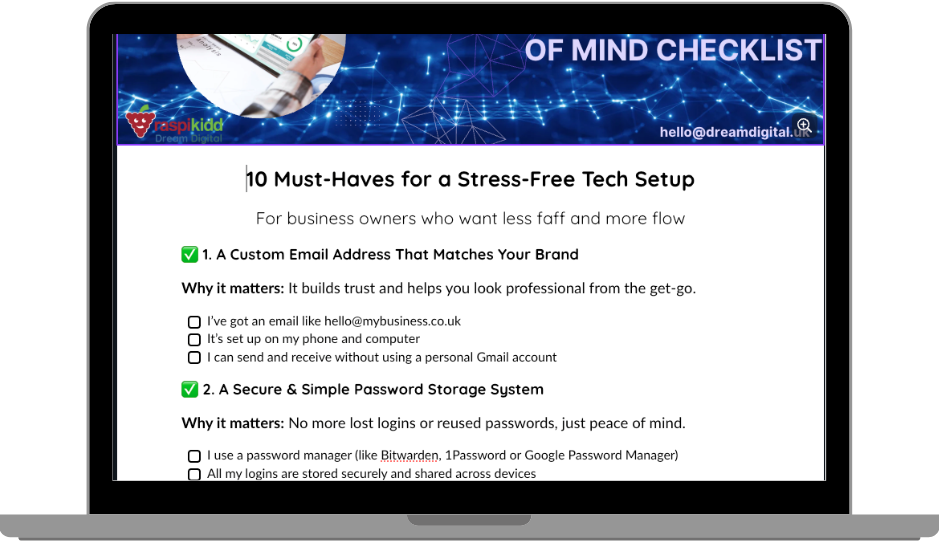
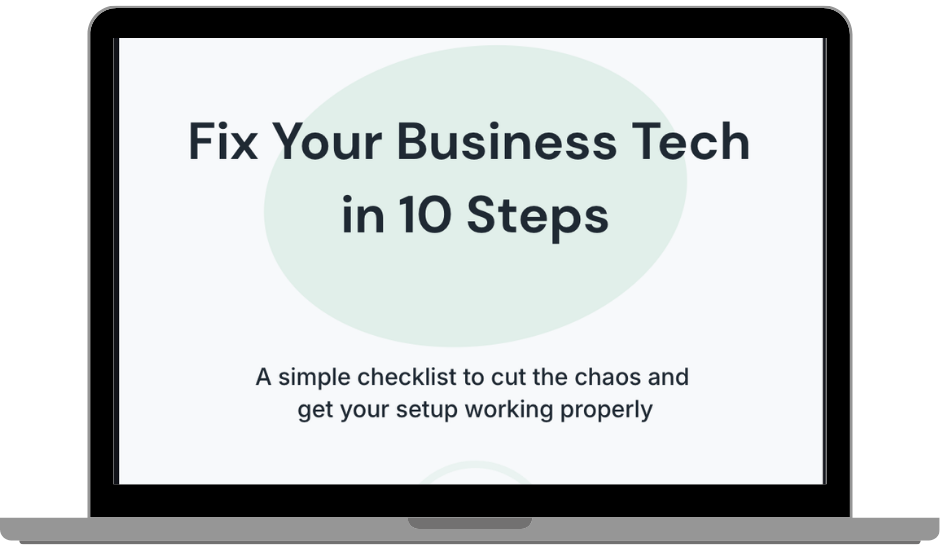
refactor: update geolocation data and enhance CTA form styling

diff --git a/components/cta-form.vue b/components/cta-form.vue
@@ -1,7 +1,7 @@
 <template>
   <div class="bg-orange-50 py-8 sm:py-12 lg:py-16">
     <div class="mx-auto grid max-w-7xl grid-cols-1 gap-10 px-6 lg:grid-cols-12 lg:gap-8 lg:px-8">
-        <h2 class="max-w-xl tracking-tight text-balance lg:col-span-7">
+        <h2 class="max-w-xl text-3xl font-semibold tracking-tight text-balance sm:text-4xl lg:col-span-7">
             Get our free Digital Clarity Checklist Straight to your inbox
         </h2>
       <form class="w-full max-w-md lg:col-span-5 lg:pt-2" name="LandingPage" method="POST" netlify>
@@ -10,14 +10,16 @@
             <label for="name" class="sr-only">
                 Name
             </label>
-            <input id="name" name="name" type="text" autocomplete="name" required class="min-w-0 flex-auto rounded-md bg-zinc-100 border-2 px-3.5 py-2 text-base text-gray-900 outline-1 -outline-offset-1 border-sky-700 outline-violet-300 placeholder:text-gray-400 focus:outline-2 focus:-outline-offset-2 focus:outline-violet-600 sm:text-sm/6" placeholder="Enter your Name" />
+            <input id="name" name="name" type="text" autocomplete="name" required class="min-w-0 flex-auto rounded-md bg-zinc-100 border-2 px-3.5 py-2 text-base text-gray-900 outline-1 -outline-offset-1 border-sky-700 outline-violet-300 placeholder:text-gray-400 focus:outline-2 focus:-outline-offset-2 focus:outline-violet-600 sm:text-sm/6" placeholder="Name" />
             <label for="email-address" class="sr-only">
                 Email address
             </label>
-            <input id="email-address" name="email" type="email" autocomplete="email" required class="min-w-0 flex-auto rounded-md bg-zinc-100 border-2 px-3.5 py-2 text-base text-gray-900 outline-1 -outline-offset-1 border-sky-700 outline-violet-300 placeholder:text-gray-400 focus:outline-2 focus:-outline-offset-2 focus:outline-violet-600 sm:text-sm/6" placeholder="Enter your email" />
-            <button type="submit" class="flex-none rounded-md bg-green-600 px-3.5 py-2.5 text-sm font-semibold text-white shadow-xs hover:bg-emerald-500 focus-visible:outline-2 focus-visible:outline-offset-2 focus-visible:outline-green-500">
+            <input id="email-address" name="email" type="email" autocomplete="email" required class="min-w-0 flex-auto rounded-md bg-zinc-100 border-2 px-3.5 py-2 text-base text-gray-900 outline-1 -outline-offset-1 border-sky-700 outline-violet-300 placeholder:text-gray-400 focus:outline-2 focus:-outline-offset-2 focus:outline-violet-600 sm:text-sm/6" placeholder="Email" />
+          <div>
+            <button type="submit" class="flex w-full justify-center rounded-md bg-green-600 px-3 py-1.5 text-sm/6 font-semibold text-white shadow-xs hover:bg-emerald-500 focus-visible:outline-2 focus-visible:outline-offset-2 focus-visible:outline-green-500">
                 Send me the Checklist
             </button>
+            </div>
         </div>
         <div class="mt-4">
             <input type="checkbox" id="checkbox" v-model="checked" required />

diff --git a/pages/digital-clarity-checklist.vue b/pages/digital-clarity-checklist.vue
@@ -117,8 +117,9 @@
       <p class="mt-8 text-pretty">
         Start with a simple checklist and see what’s working and what’s not.
       </p>
-      <cta-form class = "mt-8"/>
+      
     </div>
+    <cta-form class = "mt-8"/>
   </div>
 </div>
 <Footer />
